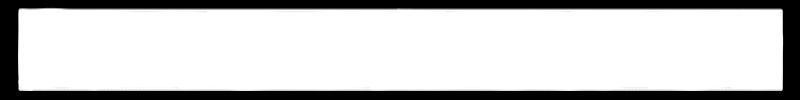
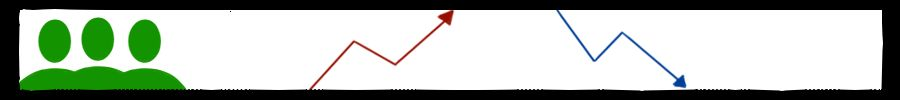
updated UI, added updated assets, configured buttons to make choices throughout the game.

diff --git a/src/level1.js b/src/level1.js
@@ -1,7 +1,6 @@
 import './style.css'
 import Phaser from 'phaser' 
-
-
+import HUDscene from './HUDscene.js'
 
 export default class Level1 extends Phaser.Scene {
   constructor() {
@@ -11,18 +10,13 @@ export default class Level1 extends Phaser.Scene {
     this.load.image('Bank_Level_1', '/assets/Bank_Level_1.png');
     this.load.audio('level1music', '/assets/Walking_down_an_escalator.mp3');
   
-    //current issues
-    this.load.image('risingInflation', '/assets/Current_Issue_Rising_Inflation.png');
-    this.load.image('risingDeflation', '/assets/Current_Issue_Rising_Deflation.png');
-    //choice cards:
     //rising inflation choices
-    this.load.image('saleday', '/assets/Current_Issue_Rising_Inflation.png');
-    
-    this.load.image('currentissueDeflation', '/assets/Current_Issue_Rising_Deflation.png');
+    this.load.image('saleday', '/assets/Choice_Sale_day.jpg');
+    this.load.image('reducefunding', '/assets/Choices_Reduce_Funding.jpg');
 
-    //rising deflation card
-    this.load.image('reduce funding', '/assets/Current_Issue_Rising_Inflation.png');
-    this.load.image('currentissueDeflation', '/assets/Current_Issue_Rising_Deflation.png');
+    //rising deflation choices
+    this.load.image('makejobs', '/assets/Choices_Make_Jobs.jpg');
+    this.load.image('everythingcheap', '/assets/Choices_Everything_cheap.jpg');
 
     //questions
     this.load.image('Q_RisingDeflation', '/assets/Question_Rising_Deflation.jpg');
@@ -30,12 +24,21 @@ export default class Level1 extends Phaser.Scene {
 
   }
   create() {
-    
+    this.scene.launch('HUDscene');
     this.add.image(400, 300,'Bank_Level_1');
-    this.add.image(400, 200, 'Q_RisingDeflation');
-    this.add.image(400, 200, 'Q_RisingInflation');
-    this.add.image(400, 100, 'currentissueInflation');
-    this.add.image(400, 100, 'currentissueDeflation');
+    this.add.image(400, 80, 'Q_RisingDeflation');
+   
+  //choices
+    let makeJobsChoice = this.add.image(250, 450, 'makejobs');
+    makeJobsChoice.setInteractive().on("pointerdown", () =>  {
+    this.input.on('pointerdown', () => this.sound.play('buttonClick'));
+    });
+
+    let makeEverythingCheap = this.add.image(550, 450, 'everythingcheap');
+     makeEverythingCheap.setInteractive().on("pointerdown", () =>  {
+    this.input.on('pointerdown', () => this.sound.play('buttonClick'));
+    makeEverythingCheap = "makeEverythingCheap"; 
+    });
 
     this.sound.play('level1music', {
       volume: 0.3,
@@ -43,16 +46,13 @@ export default class Level1 extends Phaser.Scene {
     });
   }
 }
-
-function RisingInflation (answer) {
-if () {
+function update () {
+  if (makeEverythingCheap = 'makeEverythingCheap') {
+  publicity_score += 25;
+  inflation_score -= 10; 
   }
-else if () {
+  else if () {
 
-}
-}
-
-function RisingDeflation (answer) {
-if () {
   }
 }
+

diff --git a/src/HUDscene.js b/src/HUDscene.js
@@ -1,30 +1,27 @@
 import './style.css'
 import Phaser from 'phaser' 
 
-var population_score = 25;
-var inflation_score = 25; 
-var deflation_score = 25;
-var year_score = 1; 
+let publicity_score = 25;
+let inflation_score = 10; 
+let deflation_score = 10;
 
 var populationText; 
 var inflationText;
 var deflationText; 
-var yearText; 
 
 export default class HUDscene extends Phaser.Scene {
   constructor() {
-    super('HUD');
+    super('HUDscene');
   }
   preload () {
-    this.load.image('kingdomUI', '/assets/kingdomUI.png');
+    this.load.image('UIbar', '/assets/Bar.jpg');
   }
 
   create() {
-    this.add.image(400, 0, 'kingdomUI');
-    yearText = this.add.text(16, 16, 'deflation = 25', {fontSize: '32px, fill: #000'});
-    populationText = this.add.text(16, 32, 'population happiness = 25', {fontSize: '32px, fill: #000'});
+    UIbar = this.add.image(400, 10, 'UIbar');
+    UIbar.setOrigin(0.5, 0.5);
+    populationText = this.add.text(16, 32, 'publicity = 25', {fontSize: '32px, fill: #000'});
     inflationText = this.add.text(16, 64, 'inflation: 25', {fontSize: '32px, fill: #000'});
     deflationText = this.add.text(16, 76, 'deflation = 25', {fontSize: '32px, fill: #000'});
-    
   }
 }

diff --git a/src/main.js b/src/main.js
@@ -8,13 +8,15 @@ import Gameover1 from './gameover1.js'
 import Gameover2 from './gameover2.js'
 import Gameover3 from './gameover3.js'
 import Winner from './winscreen.js'
+import HUDscene from './HUDscene.js'
+
 
 const config = {
   type: Phaser.WEBGL, 
   width: 800,
   height: 600, 
   canvas: gameCanvas,
-  scene:[MainMenu, Level1, Level2, Level3, Gameover1, Gameover2, Gameover3, Winner],
+  scene:[MainMenu, Level1, Level2, Level3, HUDscene, Gameover1, Gameover2, Gameover3, Winner],
 };
 
 const game = new Phaser.Game(config);

diff --git a/src/level3.js b/src/level3.js
@@ -1,5 +1,6 @@
 import './style.css'
 import Phaser from 'phaser' 
+import HUDscene from './HUDscene.js'
 
 export default class Level3 extends Phaser.Scene {
   constructor() {
@@ -9,6 +10,6 @@ export default class Level3 extends Phaser.Scene {
     this.load.image('Bank_Level_3', '/assets/Bank_Level_3.jpg');
   }
   create() {
-    this.add.image(400, 300, 'Bank_Level_3');
+    this.add.image(400, 300,'Bank_Level_3');
   }
 }

diff --git a/src/mainmenu.js b/src/mainmenu.js
@@ -12,14 +12,15 @@ export default class MainMenu extends Phaser.Scene {
   }
   create() {
     this.add.image(400,300, 'Main Menu');
+    
     let startButton = this.add.image(415, 450, 'Start Button');
     startButton.setInteractive().on("pointerdown", () => {
     this.input.on('pointerdown', () => this.scene.switch('level1'));
     this.sound.play('buttonClick');
        });
    }
- 
 }
+
 
 
   

diff --git a/src/level2.js b/src/level2.js
@@ -1,5 +1,6 @@
 import './style.css'
 import Phaser from 'phaser' 
+import HUDscene from './HUDscene.js'
 
 export default class Level2 extends Phaser.Scene {
   constructor() {